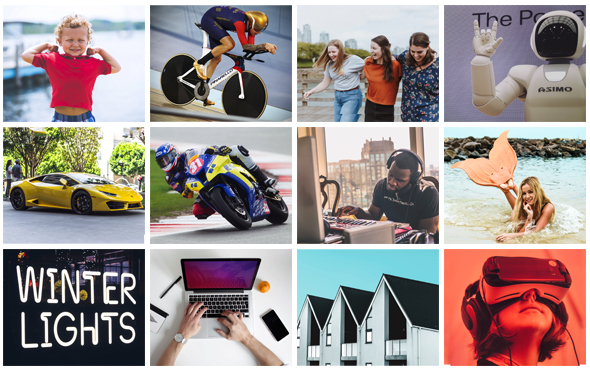
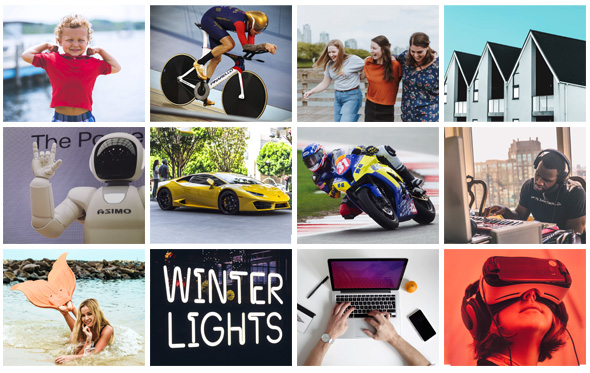
newcontact

diff --git a/oldphoto/index.html b/oldphoto/index.html
@@ -35,13 +35,13 @@
 <img src="https://raw.githubusercontent.com/akidaniel/almacen/gh-pages/wipe_html/images/blank.jpg" alt="blank">
 <img src="https://raw.githubusercontent.com/akidaniel/almacen/gh-pages/oldphoto/images/bicycle2.jpg" alt="Old photo 08" style="margin: 10px 0; ">
 <img src="https://raw.githubusercontent.com/akidaniel/almacen/gh-pages/oldphoto/images/girls.jpg" alt="Old photo 09" style="margin: 10px 0;">
-<img src="https://raw.githubusercontent.com/akidaniel/almacen/gh-pages/oldphoto/images/asimo.jpg" alt="Old photo 10" style="margin: 10px 0;">
-<img src="https://raw.githubusercontent.com/akidaniel/almacen/gh-pages/oldphoto/images/ferrari.jpg" alt="Old photo 11" style="margin: 10px 0;">
-<img src="https://raw.githubusercontent.com/akidaniel/almacen/gh-pages/oldphoto/images/moto.jpg" alt="Old photo 12" style="margin: 10px 0;">
-<img src="https://raw.githubusercontent.com/akidaniel/almacen/gh-pages/oldphoto/images/dj.jpg" alt="Old photo 13" style="margin: 10px 0;">
-<img src="https://raw.githubusercontent.com/akidaniel/almacen/gh-pages/oldphoto/images/sirena.jpg" alt="Old photo 14" style="margin: 10px 0;">
-<img src="https://raw.githubusercontent.com/akidaniel/almacen/gh-pages/oldphoto/images/sign.jpg" alt="Old photo 15" style="margin: 10px 0;">
-<img src="https://raw.githubusercontent.com/akidaniel/almacen/gh-pages/oldphoto/images/house.jpg" alt="Old photo 16" style="margin: 10px 0;">
+<img src="https://raw.githubusercontent.com/akidaniel/almacen/gh-pages/oldphoto/images/house.jpg" alt="Old photo 10" style="margin: 10px 0;">
+<img src="https://raw.githubusercontent.com/akidaniel/almacen/gh-pages/oldphoto/images/asimo.jpg" alt="Old photo 11" style="margin: 10px 0;">
+<img src="https://raw.githubusercontent.com/akidaniel/almacen/gh-pages/oldphoto/images/ferrari.jpg" alt="Old photo 12" style="margin: 10px 0;">
+<img src="https://raw.githubusercontent.com/akidaniel/almacen/gh-pages/oldphoto/images/moto.jpg" alt="Old photo 13" style="margin: 10px 0;">
+<img src="https://raw.githubusercontent.com/akidaniel/almacen/gh-pages/oldphoto/images/dj.jpg" alt="Old photo 14" style="margin: 10px 0;">
+<img src="https://raw.githubusercontent.com/akidaniel/almacen/gh-pages/oldphoto/images/sirena.jpg" alt="Old photo 15" style="margin: 10px 0;">
+<img src="https://raw.githubusercontent.com/akidaniel/almacen/gh-pages/oldphoto/images/sign.jpg" alt="Old photo 16" style="margin: 10px 0;">
 <img src="https://raw.githubusercontent.com/akidaniel/almacen/gh-pages/oldphoto/images/mac.jpg" alt="Old photo 17" style="margin: 10px 0;">
 <img src="https://raw.githubusercontent.com/akidaniel/almacen/gh-pages/oldphoto/images/virtual.jpg" alt="Old photo 18" style="margin: 10px 0;">
 
